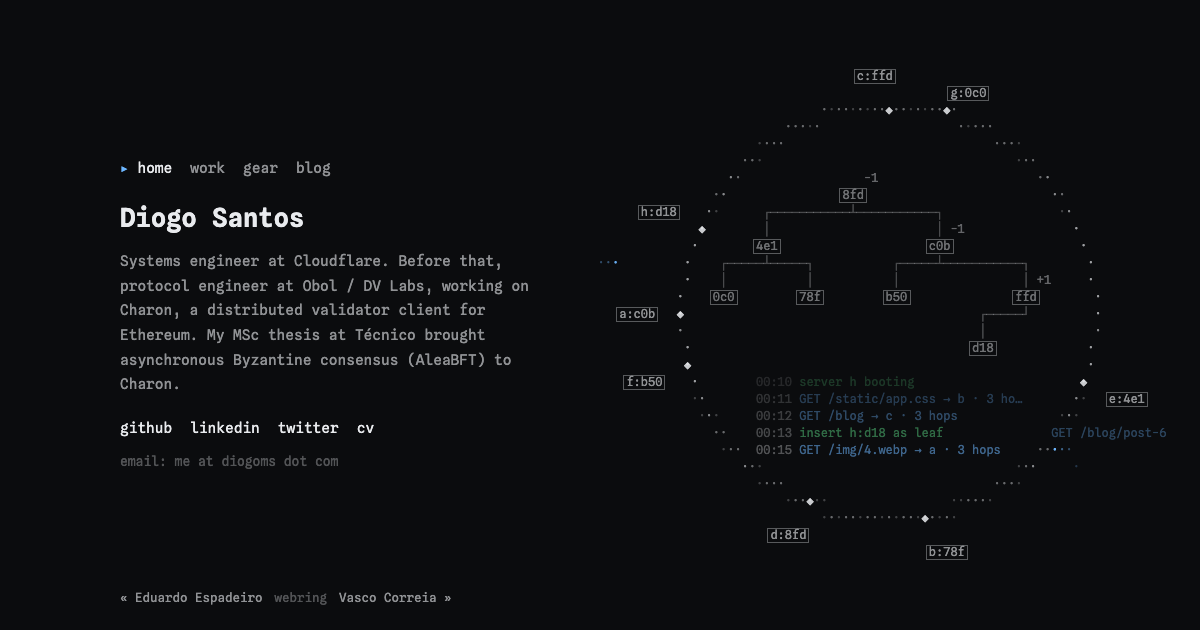
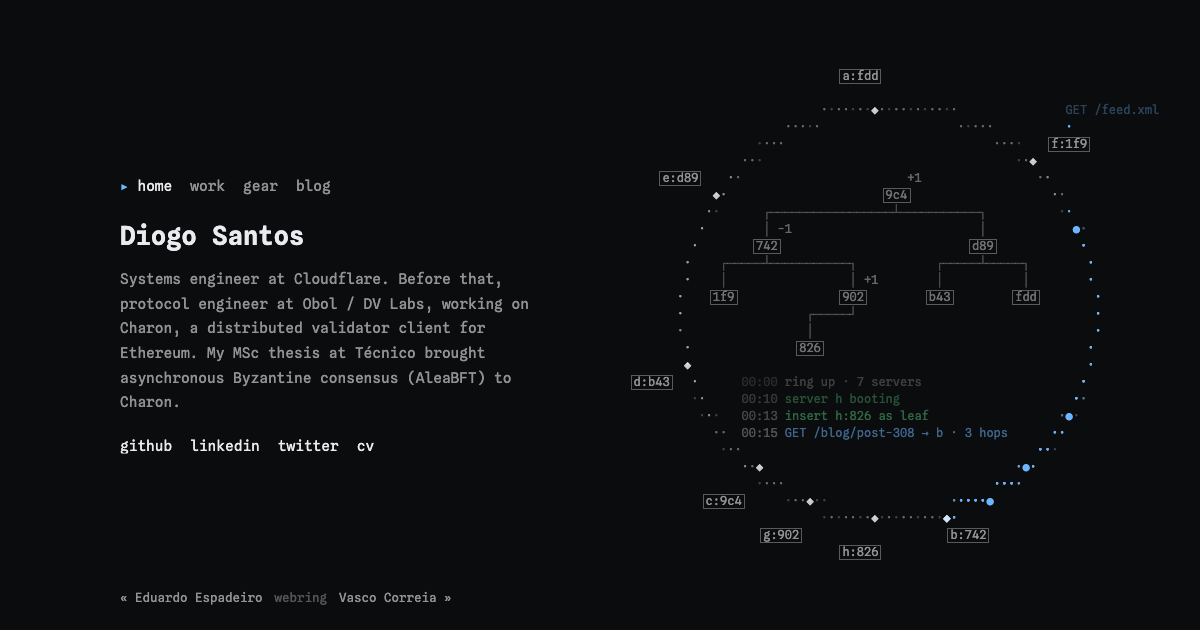
Remove email line

diff --git a/assets/site.css b/assets/site.css
@@ -35,7 +35,6 @@ a:hover, a:focus-visible { color: var(--req); outline: none; }
 h1 { font-size: 26px; font-weight: 600; letter-spacing: -0.01em; }
 h2 { font-size: 12px; font-weight: 500; color: var(--dim); text-transform: lowercase; margin: 24px 0 10px; }
 p { margin-top: 16px; color: var(--mid); line-height: 1.7; }
-.email { margin-top: 14px; font-size: 13px; color: var(--dim); }
 .links { margin-top: 22px; display: flex; gap: 18px; flex-wrap: wrap; }
 /* fixed size so the ring's masks stay right when the webring loads */
 .webring { position: fixed; left: 10vw; right: 5vw; bottom: 22px; min-height: 1.7em; align-items: center; display: flex; gap: 12px; white-space: nowrap; overflow: hidden; font-size: 12.5px; color: var(--dim); }

diff --git a/index.html b/index.html
@@ -41,7 +41,6 @@
         <a href="https://x.com/l_Didas_l">twitter</a>
         <a href="/cv-diogo-santos.pdf">cv</a>
       </div>
-      <p class="email">email: me at diogoms dot com</p>
     </main>
     <footer class="webring" id="webring" aria-label="webring"></footer>
     <script type="module">
